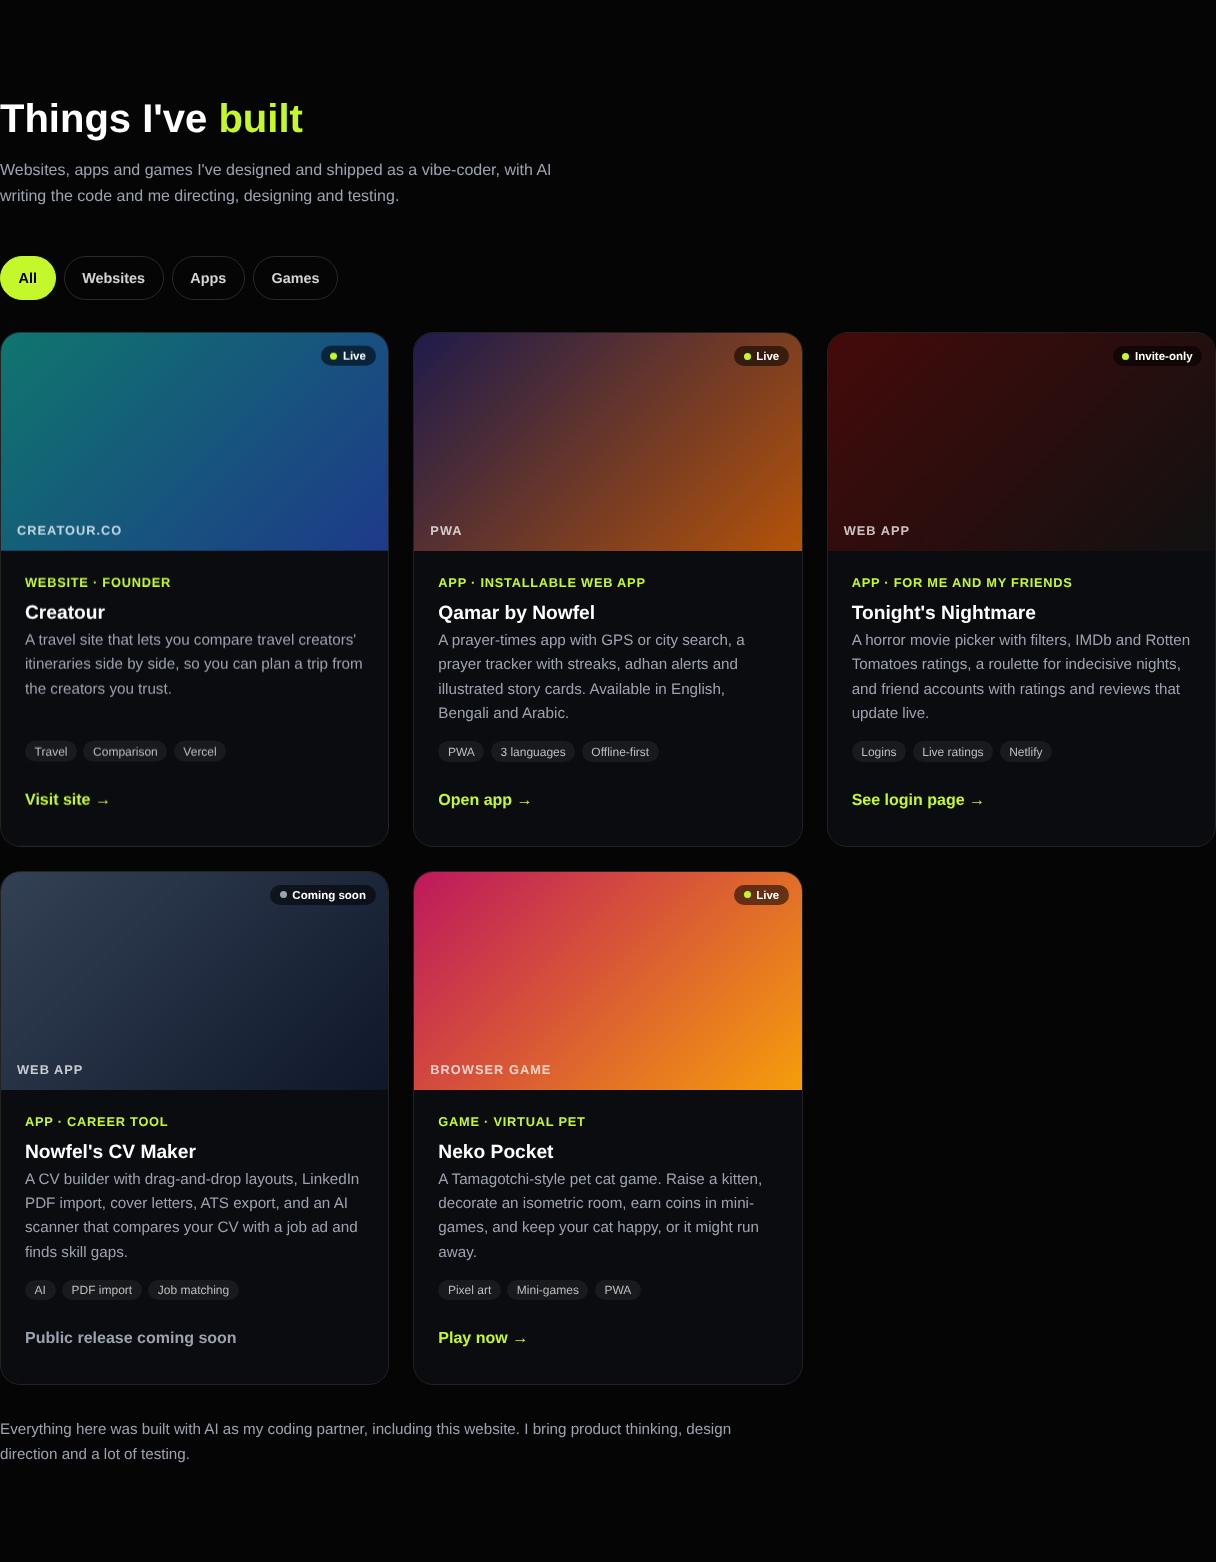
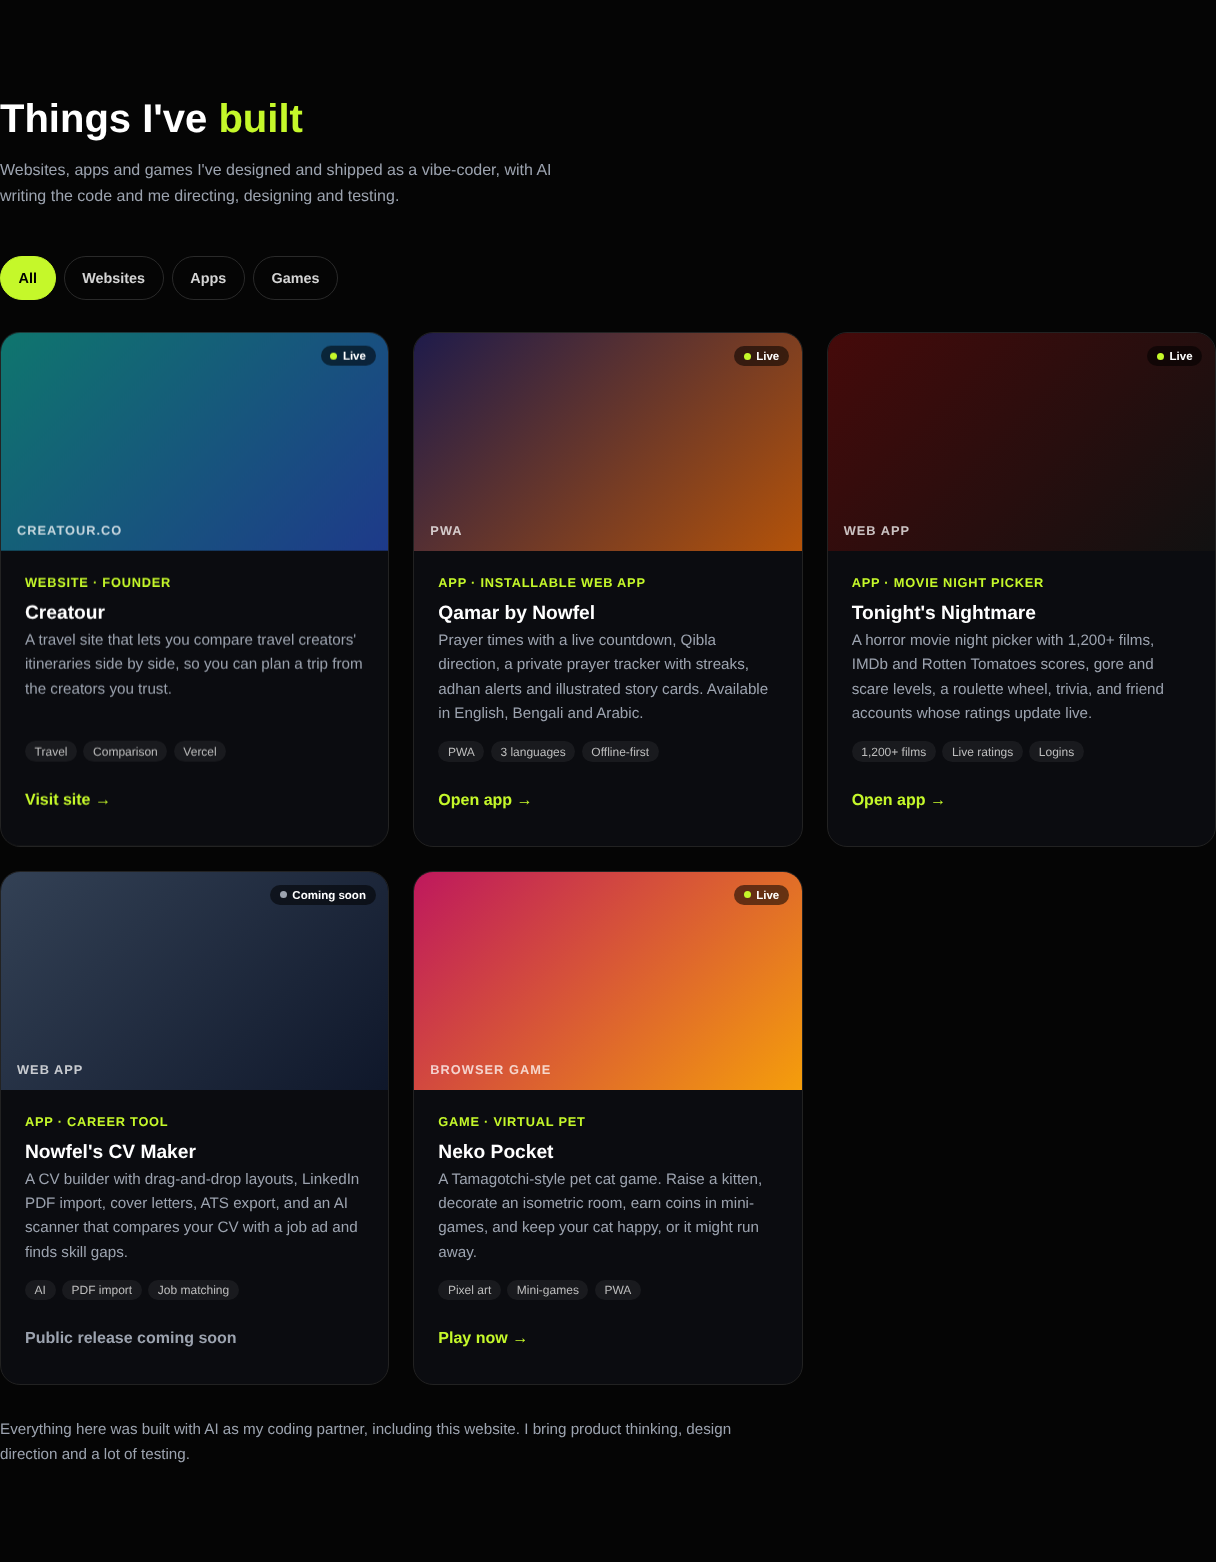
Update Qamar and Tonight's Nightmare descriptions to match live apps
Claude-Session: https://claude.ai/code/session_012VRjU9vALADXkZKnxfse6X

Changed region(s): [[0.6875, 0.3688, 0.9688, 0.5224], [0.3438, 0.3995, 0.625, 0.4609], [0.9375, 0.2151, 0.9688, 0.2458]]

diff --git a/index.html b/index.html
@@ -680,20 +680,20 @@
                     <div class="project-body">
                         <div class="kind">App · Installable web app</div>
                         <h3>Qamar by Nowfel</h3>
-                        <p>A prayer-times app with GPS or city search, a prayer tracker with streaks, adhan alerts and illustrated story cards. Available in English, Bengali and Arabic.</p>
+                        <p>Prayer times with a live countdown, Qibla direction, a private prayer tracker with streaks, adhan alerts and illustrated story cards. Available in English, Bengali and Arabic.</p>
                         <div class="chips"><span class="chip">PWA</span><span class="chip">3 languages</span><span class="chip">Offline-first</span></div>
                         <a class="project-link" href="https://qamarbynowfel.netlify.app" target="_blank" rel="noopener">Open app &rarr;</a>
                     </div>
                 </article>
 
                 <article class="project" data-kind="app">
-                    <div class="thumb" style="background:linear-gradient(135deg,#450a0a,#111);"><span class="iconify" data-icon="mdi:movie-open"></span><span class="thumb-label">Web app</span><span class="status">Invite-only</span></div>
+                    <div class="thumb" style="background:linear-gradient(135deg,#450a0a,#111);"><span class="iconify" data-icon="mdi:movie-open"></span><span class="thumb-label">Web app</span><span class="status">Live</span></div>
                     <div class="project-body">
-                        <div class="kind">App · For me and my friends</div>
+                        <div class="kind">App · Movie night picker</div>
                         <h3>Tonight's Nightmare</h3>
-                        <p>A horror movie picker with filters, IMDb and Rotten Tomatoes ratings, a roulette for indecisive nights, and friend accounts with ratings and reviews that update live.</p>
-                        <div class="chips"><span class="chip">Logins</span><span class="chip">Live ratings</span><span class="chip">Netlify</span></div>
-                        <a class="project-link" href="https://tonightsnightmarebynowfel.netlify.app" target="_blank" rel="noopener">See login page &rarr;</a>
+                        <p>A horror movie night picker with 1,200+ films, IMDb and Rotten Tomatoes scores, gore and scare levels, a roulette wheel, trivia, and friend accounts whose ratings update live.</p>
+                        <div class="chips"><span class="chip">1,200+ films</span><span class="chip">Live ratings</span><span class="chip">Logins</span></div>
+                        <a class="project-link" href="https://tonightsnightmarebynowfel.netlify.app" target="_blank" rel="noopener">Open app &rarr;</a>
                     </div>
                 </article>
 
